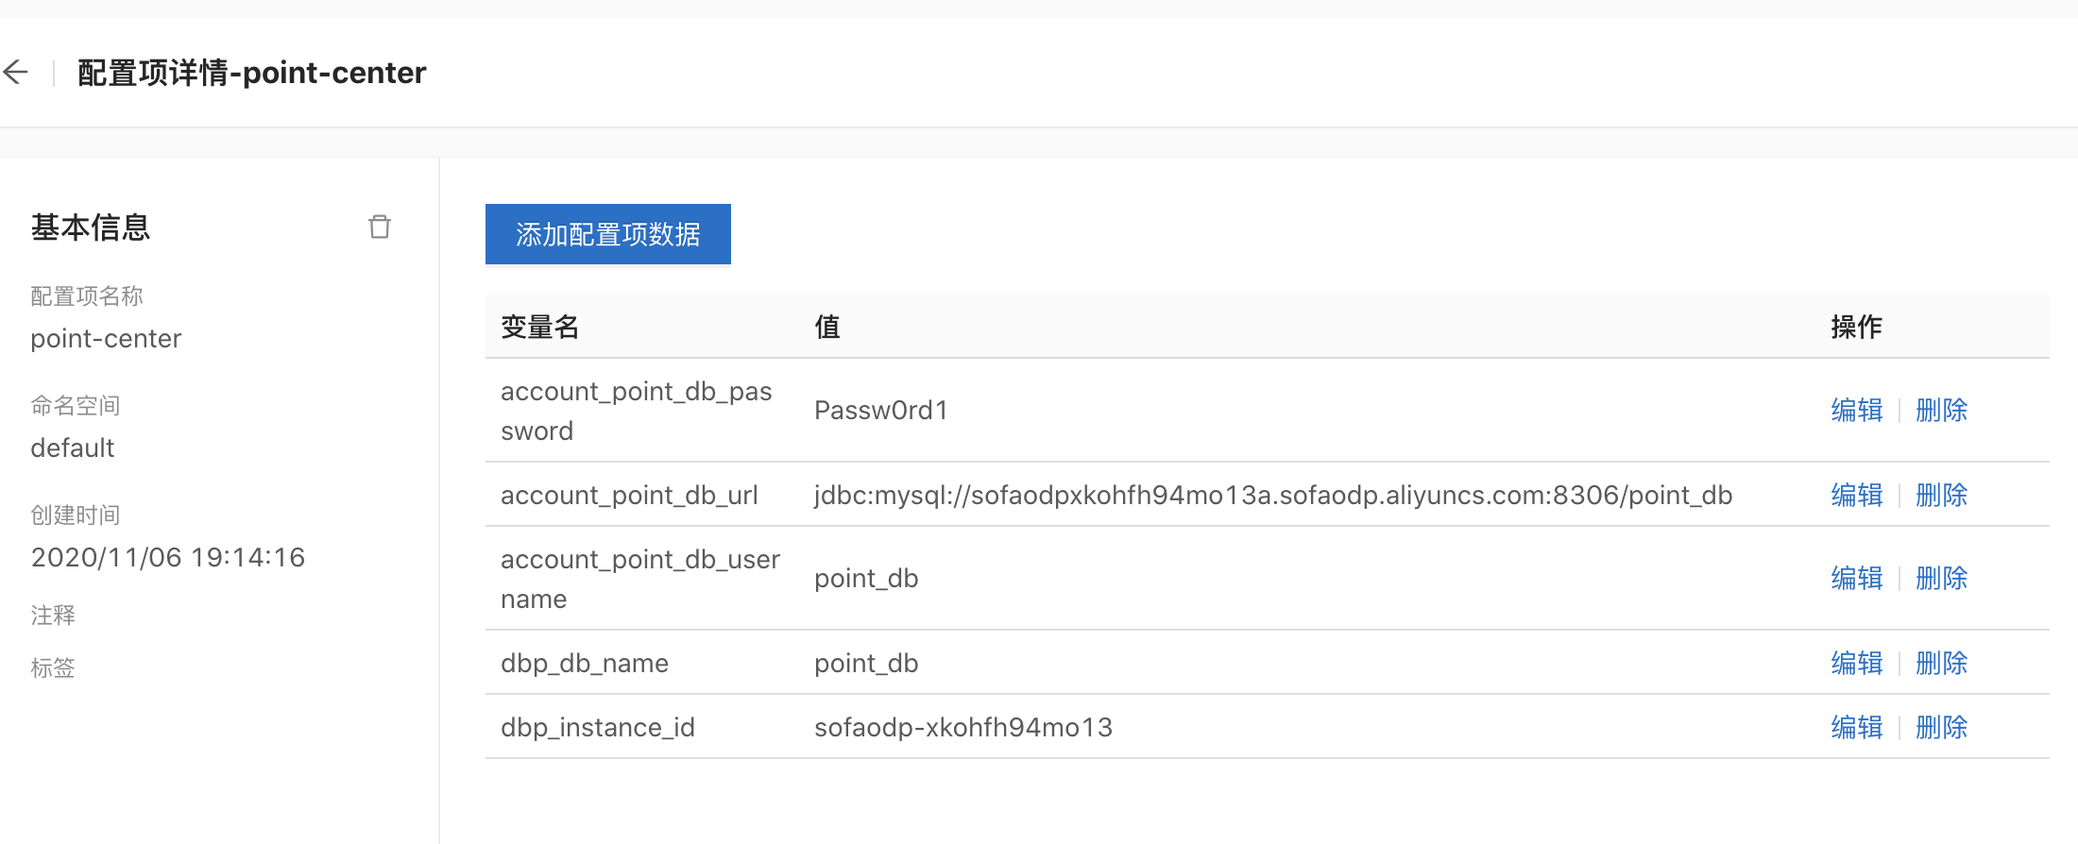
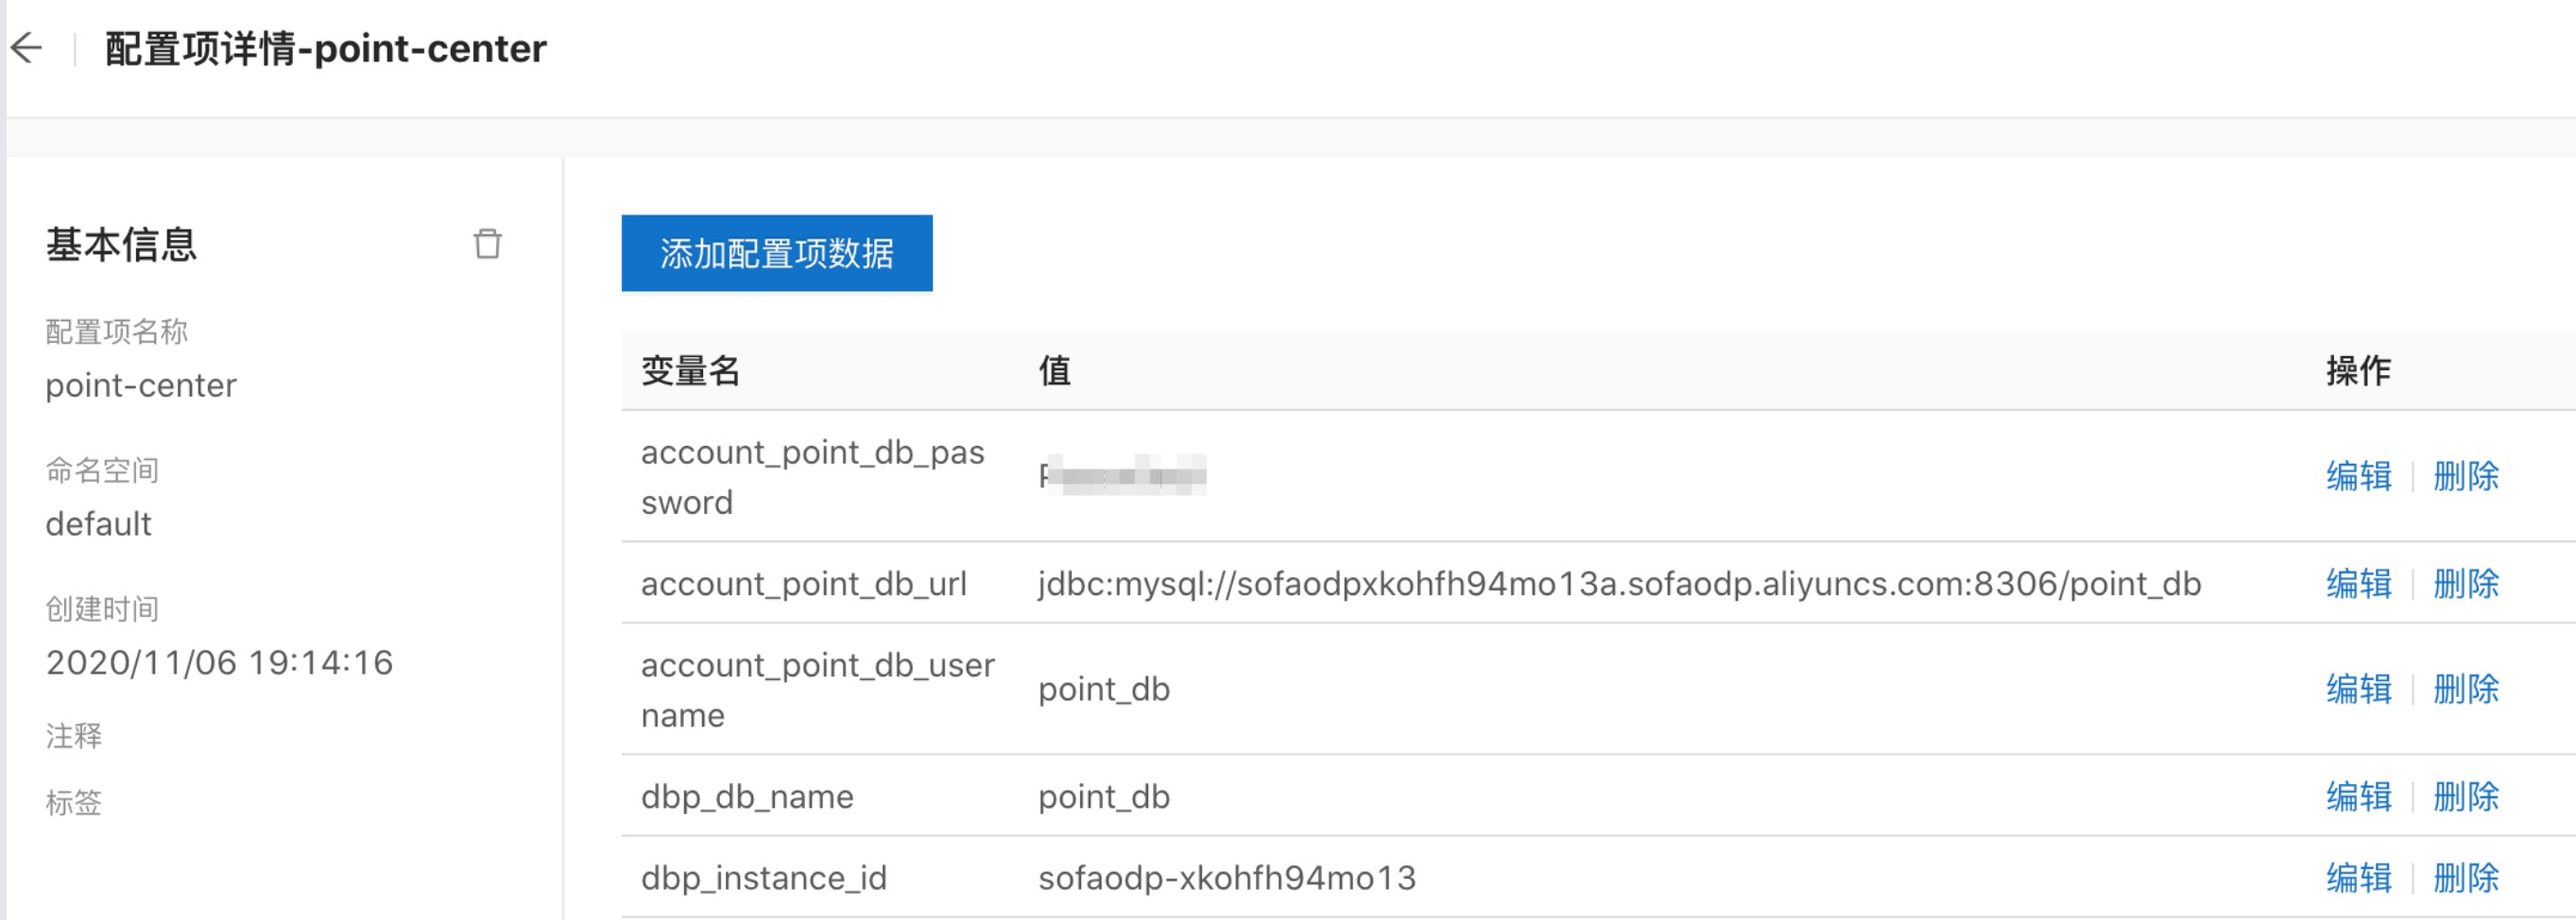
update deployment.md

diff --git a/deployment.md b/deployment.md
@@ -1,8 +1,8 @@
 ## showcase 部署说明
 
 ### 前提条件
-本地开发环境搭建参考：[安装JDK和Maven](https://help.aliyun.com/document_detail/133192.html)
-云环境准备工作参考：1. [开通SOFAStack服务](https://help.aliyun.com/document_detail/137419.html)；2. [工作空间准备](https://help.aliyun.com/document_detail/134381.html) 3. [创建应用元数据](https://help.aliyun.com/document_detail/134384.html?)
+- 本地开发环境搭建参考：[安装JDK和Maven](https://help.aliyun.com/document_detail/133192.html)
+- 云环境准备工作参考：1. [开通SOFAStack服务](https://help.aliyun.com/document_detail/137419.html)；2. [工作空间准备](https://help.aliyun.com/document_detail/134381.html) 3. [创建应用元数据](https://help.aliyun.com/document_detail/134384.html?)
 
 ### 部署步骤
 
@@ -10,7 +10,7 @@
 
 首先创建RDS数据库（注意不要用高版本，ODP不支持），注意确保创建的RDS数据库和SOFA的工作空间在同一个AZ/VPC
 
-- 创建2个RDS数据库，在每个RDS实例的账户管理下，需要创建高级权限用户（ODP 建库需要高权账户），用户名密码可以统一为: db_admin/Passw0rd1
+- 创建2个RDS数据库，在每个RDS实例的账户管理下，需要创建高级权限用户（ODP 建库需要高权账户）
 - 测试登录数据库，激活账号，登录过程中需要设置白名单
 - 修改每个实例的白名单设置，修改default从127.0.0.1为0.0.0.0/0，允许所有IP访问，如果需要可以放开公网IP访问
 
